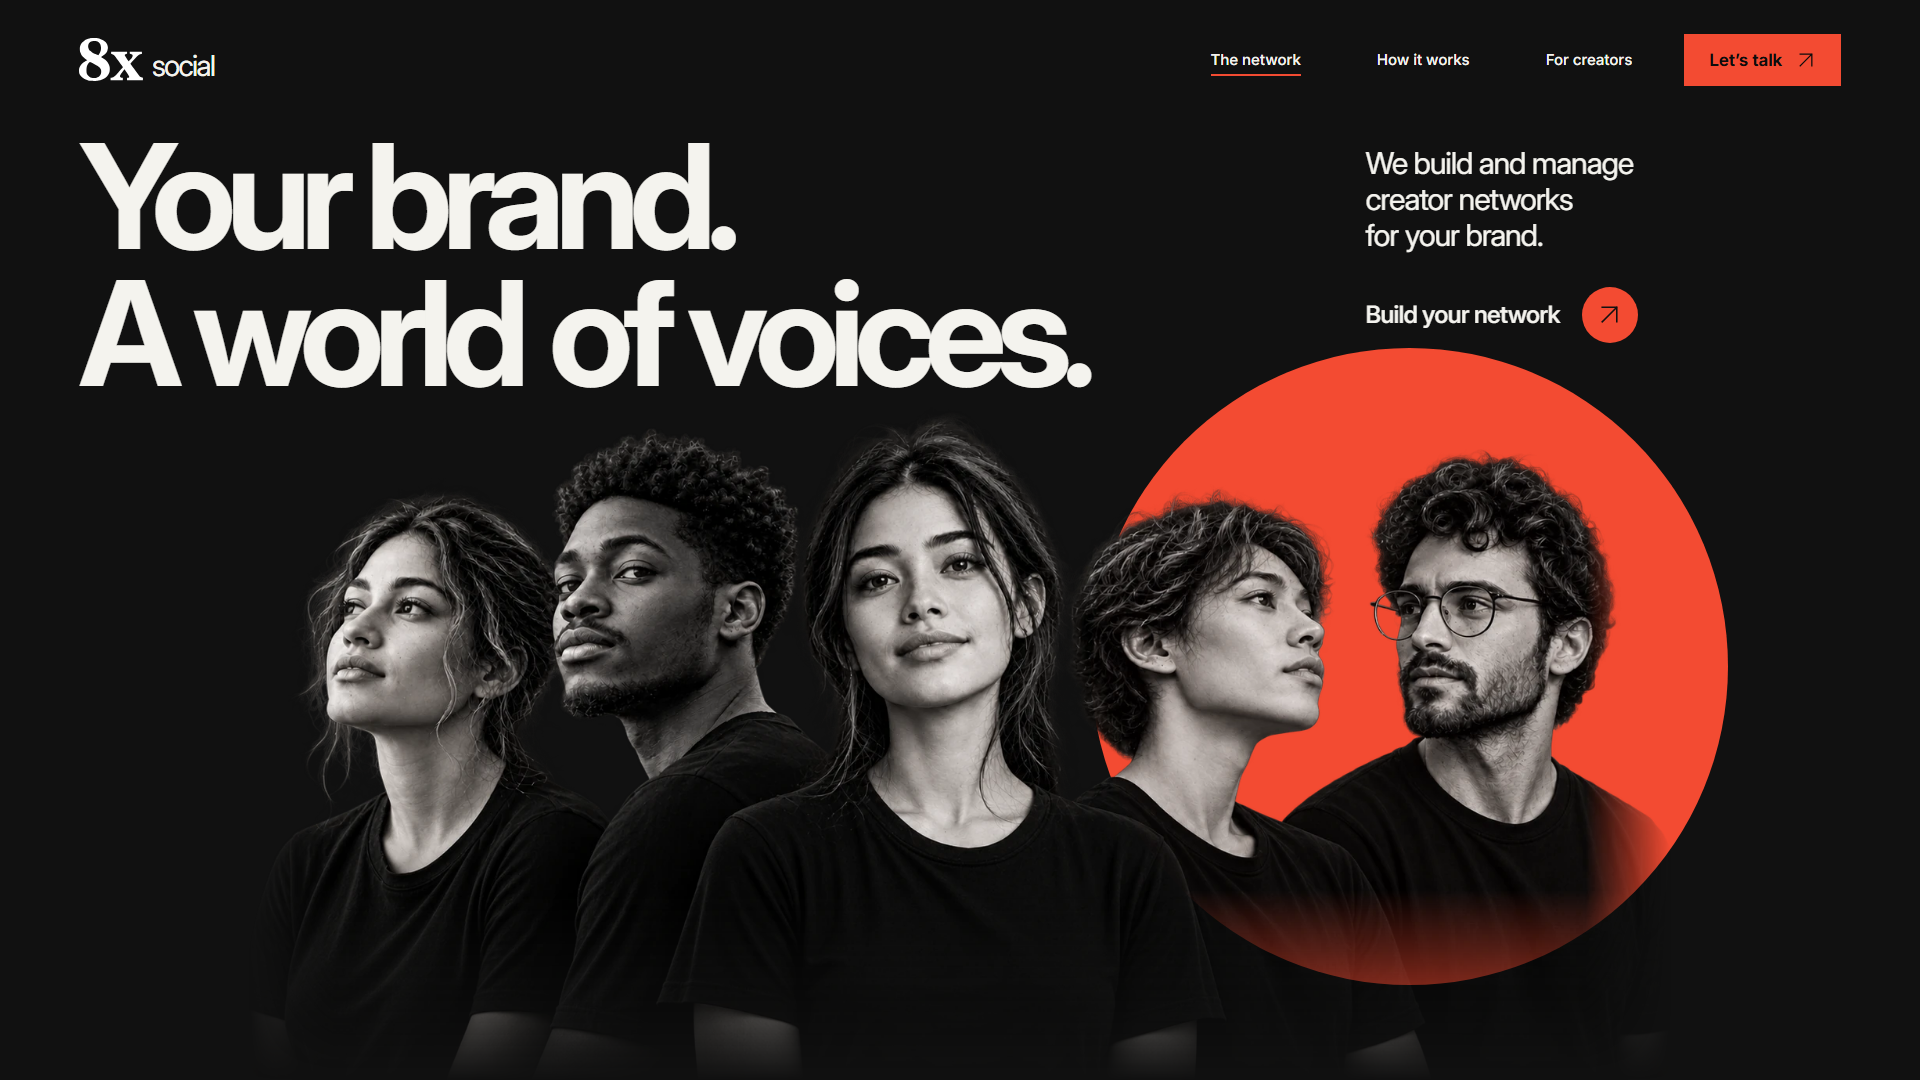
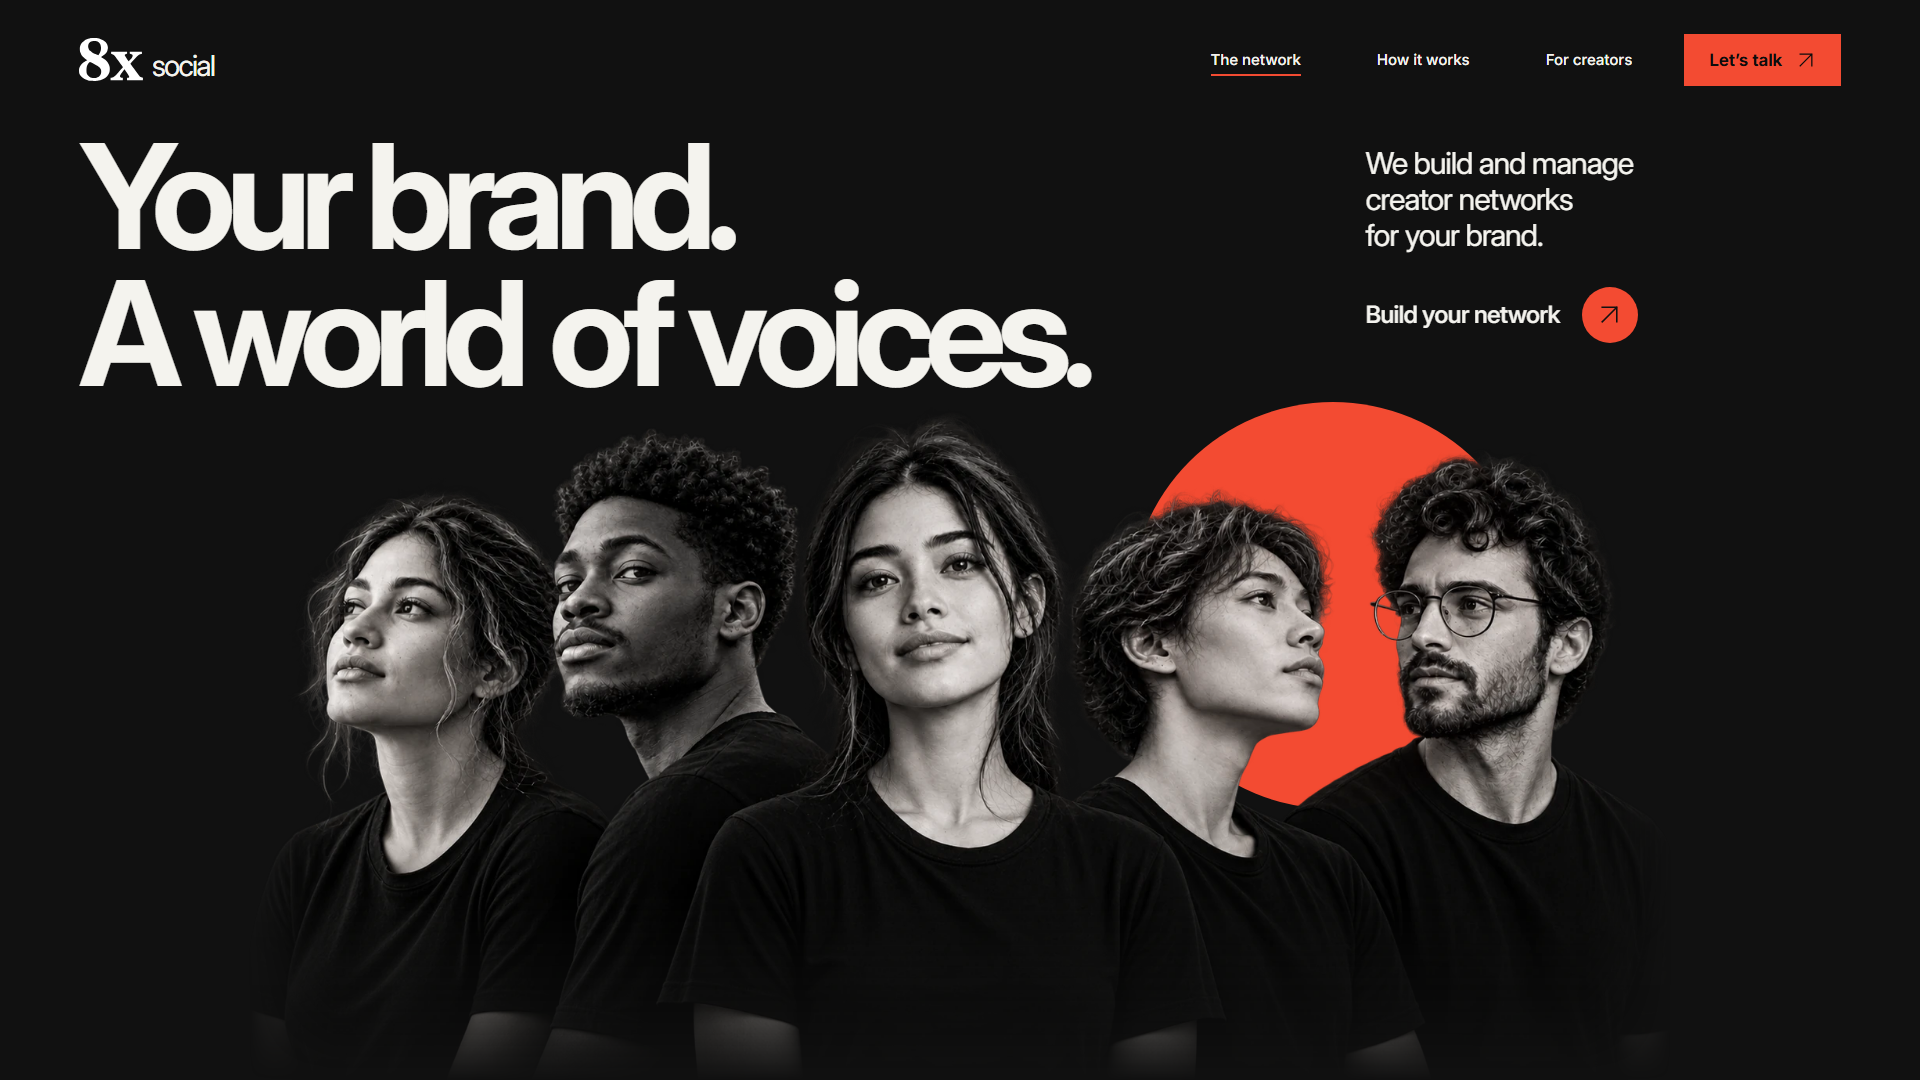
Refine layered footer motion and contain hero circle behind portraits

Changed region(s): [[0.5625, 0.3056, 0.9062, 0.9167], [0.625, 0.7333, 0.6875, 0.7639], [0.5625, 0.6722, 0.5938, 0.7333]]

diff --git a/components/family-footer.tsx b/components/family-footer.tsx
@@ -22,20 +22,27 @@ export function FamilyFooter() {
     let span = 0, top = 100, raf = 0, progress = 0, target = 0, last = 0;
     let measured = false;
     const draw = () => {
-      const turn = ease((progress - .1) / .46), reveal = ease((progress - .57) / .33);
-      const transform = `translate(${mix(280, 450, turn)} 300) scale(${mix(1.64, 3, turn)} ${mix(1.64, 2.2, turn)}) rotate(${turn * 90}) translate(-93 -132)`;
+      // Lift the complete silhouette, turn it, then lay it onto the print plane.
+      // Every layer shares one transform, so the serif edges never scatter.
+      const turn = ease((progress - .18) / .36);
+      const lift = ease((progress - .07) / .16) * (1 - ease((progress - .46) / .14));
+      const reveal = ease((progress - .6) / .23);
+      const transform = `translate(${mix(280, 450, turn)} ${300 - lift * 18}) scale(${mix(1.64, 3, turn)} ${mix(1.64, 2.2, turn)}) rotate(${turn * 90}) translate(-93 -132)`;
       ink.current!.setAttribute('transform', transform);
-      // A shallow ink layer gives the solid turn weight; it closes before printing.
-      const lift = Math.sin(turn * Math.PI);
-      depth.current!.setAttribute('transform', `translate(${lift * 4} ${lift * 5}) ${transform}`);
-      depth.current!.setAttribute('opacity', String(lift * .13));
-      suffix.current!.setAttribute('opacity', String(1 - ease((progress - .04) / .16)));
+      depth.current!.setAttribute('transform', transform);
+      depth.current!.setAttribute('opacity', String(lift));
+      // Three shallow registration layers compress together as the mark lands.
+      Array.from(depth.current!.children).forEach((layer, i) => {
+        const distance = (3 - i) * lift;
+        layer.setAttribute('transform', `translate(${distance * 1.1} ${distance * 1.8})`);
+      });
+      suffix.current!.setAttribute('opacity', String(1 - ease((progress - .05) / .12)));
       const sweep = mix(-50, 950, reveal);
       for (const mask of [solidMask.current!, printMask.current!]) {
-        mask.setAttribute('x1', String(sweep - 35)); mask.setAttribute('x2', String(sweep + 35));
+        mask.setAttribute('x1', String(sweep - 42)); mask.setAttribute('x2', String(sweep + 42));
       }
       journey.dataset.progress = progress.toFixed(3);
-      journey.dataset.phase = progress < .1 ? 'original' : progress < .57 ? 'turn' : progress < .9 ? 'impression' : 'settled';
+      journey.dataset.phase = progress < .07 ? 'original' : progress < .18 ? 'lift' : progress < .6 ? 'turn' : progress < .83 ? 'impression' : 'settled';
     };
     const sample = () => {
       if (motion.matches) return 1;
@@ -89,7 +96,7 @@ export function FamilyFooter() {
               <mask id="family-solid-mask" maskUnits="userSpaceOnUse" x="0" y="0" width="900" height="600"><rect width="900" height="600" fill="url(#family-solid-gradient)" /></mask>
               <mask id="family-print-mask" maskUnits="userSpaceOnUse" x="0" y="0" width="900" height="600"><rect width="900" height="600" fill="url(#family-print-gradient)" /></mask>
             </defs>
-            <g mask="url(#family-solid-mask)"><g ref={depth} opacity="0"><path d={mark.eight} /></g><g ref={ink}><path d={mark.eight} /></g></g>
+            <g mask="url(#family-solid-mask)"><g ref={depth} opacity="0">{[.08, .16, .24].map((opacity, i) => <path key={i} d={mark.eight} opacity={opacity} />)}</g><g ref={ink}><path d={mark.eight} /></g></g>
             <path ref={suffix} d={mark.x} transform="translate(280 300) scale(1.64) translate(-93 -132)" />
             <g className="family-print-layer" mask="url(#family-print-mask)">{mark.dots.map(([a,b,r], i) => <circle key={i} cx={450-(b-132)*3} cy={300+(a-93)*2.2} r={r} />)}</g>
           </svg>

diff --git a/app/hero-responsive.css b/app/hero-responsive.css
@@ -1,3 +1,9 @@
+/* Fade the whole composition into carbon, including the circle. Fading only
+   the cutout lets the orange underneath bleed through black clothing. */
+.hero-portrait{mask-image:linear-gradient(#000 0%,#000 72%,transparent 100%)}
+.hero-portrait img{mask-image:none}
+.hero-portrait::after{display:none}
+.hero-sun{height:60%;width:auto;right:20%;top:0;aspect-ratio:1}
 /* Compose the desktop hero against both dimensions, not just monitor width.
    The portrait keeps its complete intrinsic frame inside the remaining space. */
 @media (min-width:901px) and (min-height:520px) and (min-aspect-ratio:4/3) {
@@ -9,8 +15,7 @@
   .hero-cta{margin-top:clamp(18px,3svh,36px)}
   .hero-portrait{width:100%;height:100%;min-height:0;max-width:none;aspect-ratio:auto;margin:0}
   .hero-portrait picture{height:100%;display:flex;justify-content:center;mask-image:none}
-  .hero-portrait img{width:auto;height:100%;max-width:100%;object-fit:contain;mask-image:linear-gradient(to right,transparent,#000 6%,#000 94%,transparent),linear-gradient(#000 0%,#000 72%,transparent 100%);mask-composite:intersect}
-  .hero-sun{height:94%;width:auto;right:10%;top:-8%;aspect-ratio:1}
+  .hero-portrait img{width:auto;height:100%;max-width:100%;object-fit:contain;mask-image:linear-gradient(to right,transparent,#000 6%,#000 94%,transparent)}
   .hero-portrait::after{display:none}
 }
 @media (min-width:1151px) and (min-height:520px) and (min-aspect-ratio:4/3) {

diff --git a/tests/family-footer.spec.ts b/tests/family-footer.spec.ts
@@ -50,7 +50,11 @@ test('scroll animation waits at rest and returns to the original mark when scrol
   const frame = await page.locator('.family-art>svg').evaluate(el => el.outerHTML);
   await page.waitForTimeout(500);
   expect(await page.locator('.family-art>svg').evaluate(el => el.outerHTML)).toBe(frame);
+  await position(page, .84); await expect(root).toHaveAttribute('data-phase', 'settled');
+  const settled = await page.locator('.family-art>svg').evaluate(el => el.outerHTML);
   await position(page, 1); await expect(root).toHaveAttribute('data-phase', 'settled');
+  // The last reading interval holds the approved print, without late sinking.
+  expect(await page.locator('.family-art>svg').evaluate(el => el.outerHTML)).toBe(settled);
   await position(page, 0); await expect(root).toHaveAttribute('data-phase', 'original');
 });
 

diff --git a/docs/FOOTER.md b/docs/FOOTER.md
@@ -1,10 +1,10 @@
 # Layered stone family ending — September 17, 2026
 
-The first orange, entrance-timed footer was rejected: the user saw it already settled and could not find a real footer. The subsequent point-morph version was also rejected. The user requested a generated sequence and suggested layered motion; see design/footer-layered-v3. The current layered revision uses warm stone (#e9e5dc), connected to the original orange map by a narrow raster seam. The map's palette, geometry and density are unchanged. Review at http://localhost:3904/#family, then scroll down. Current implementation awaits user visual approval.
+The first orange, entrance-timed footer was rejected: the user saw it already settled and could not find a real footer. The subsequent point-morph version was also rejected. The user requested a generated sequence and suggested layered motion; see design/footer-layered-v3. The user now likes the final v3 dotted mark and responsive result. Its refined motion awaits review. The current layered revision uses warm stone (#e9e5dc), connected to the original orange map by a narrow raster seam. The map's palette, geometry and density are unchanged. Review at http://localhost:3904/?v=layered-finish-4#family, then scroll down.
 
 ## Sequence and layout
 
-`components/family-footer.tsx` and `app/family-footer.css` implement a native-scroll sequence. The original SVG 8x appears first. The x fades, the solid 8 rotates clockwise into a horizontal figure-eight, and a left-to-right print mask reveals a fixed halftone layer beneath it. A shallow ink offset closes before the print reveal; no dots travel independently. Products stay readable in a fixed right column; phones stack the artwork above the directory. A separate semantic footer follows with the original brand, Build your network CTA, creator/contact/LinkedIn links, legal links and back-to-top.
+`components/family-footer.tsx` and `app/family-footer.css` implement a native-scroll sequence. The original SVG 8x appears first. The x fades, the complete 8 lifts 18 SVG units with three shallow registration layers, then rotates clockwise into a horizontal figure-eight. The layers compress as it lands. A left-to-right print mask reveals a fixed halftone layer beneath it. No dots travel independently. Lift begins at 7%, turn runs from 18–54%, landing completes at 60%, printing runs from 60–83%; the remaining 17% holds the exact approved endpoint. Products stay readable in a fixed right column; phones stack the artwork above the directory. A separate semantic footer follows with the original brand, Build your network CTA, creator/contact/LinkedIn links, legal links and back-to-top.
 
 When the complete stage fits the viewport, CSS sticky holds it over 1.15 viewport heights of additional native scrolling. There is no wheel/touch interception. The SVG transforms and masks follow scroll with 85ms damping and stop updating at rest; scrolling back reconstructs the original logo. The effective progress distance is capped by the actual remaining document scroll, fixing an unfinished end frame on tall windows. Short viewports use entry progress without pinning. Reduced motion renders the settled illustration without added scroll distance. No JavaScript uses a matching static SVG and ordinary links.
 
@@ -18,6 +18,6 @@ The user's labels/order are Careers, Sale (singular), Social, Research and a fif
 
 ## Validation and rollback
 
-Production build and TypeScript pass. All 21 behavioral tests pass, including full-portrait viewport checks and completion at the document end in tall windows. Checks cover scroll phases, stationary directory, deterministic reverse, rest without looping, semantic footer/links, mobile, reduced motion, no-script fallback and overflow through 2558px. QA frames are `docs/qa/footer-v3-*.png`. The local browser was also checked through the actual scroll sequence. Safari/Firefox have not been verified.
+Production build and TypeScript pass. All 21 behavioral tests passed on the v3 baseline; the six targeted footer/hero tests pass after this refinement. The rest/reverse test now also verifies the settled SVG remains identical over the final reading interval. Checks cover scroll phases, stationary directory, deterministic reverse, rest without looping, semantic footer/links, mobile, reduced motion, no-script fallback and overflow through 2558px. QA frames are `docs/qa/footer-v3-*.png`. The local browser was also checked through the actual scroll sequence. Safari/Firefox have not been verified.
 
 The original map-only baseline is commit `31d6628`. Both v1 and v2 remain rejected historical implementations. The v3 generated board was produced before the layered implementation. The v1 generated board remains in `design/footer-infinity-v1` as historical direction; its orange timed implementation is rejected. Do not restore it as the current approved design. No deployment or dependency changes accompany this revision.

diff --git a/AGENTS.md b/AGENTS.md
@@ -2,6 +2,7 @@
 This is the fresh minimal project, separate from ../8x-social. Latest user requests govern; ignore parent Conductor/Open form instructions.
 Read design/CURRENT-DIRECTION.md and README.md. The approved build scope is the carbon hero, continuous real-creator-content sequence, stone Day-to-day, Dot Reach, interactive comparison and original ORANGE map on the main homepage. Each video section uses distinct original-site creators. Earlier partner-feedback layouts were rejected, not the underlying business content. Consult docs/CONTENT-AUDIT.md before designing later sections. The latest user explicitly chose the map next; preserve its original geometry and light dot density. The later 8-to-infinity product family ending remains future work.
 Latest footer revision supersedes the deferral above: the user rejected the orange timed reveal. The ending is now warm stone, with a bounded native-scroll 8-to-dotted-infinity sequence, stationary product directory and a real contact/legal footer. Read docs/FOOTER.md. Earlier decorative motion is quiet; media and functional controls remain. 8x Next is a placeholder, and unverified products have no links. The later v2 point morph was also rejected. Current v3 is a layered solid SVG turn and masked, stationary halftone reveal based on design/footer-layered-v3. The 1920×1080 hero now shows the full portrait frame. This implementation awaits user visual review.
+Latest feedback supersedes the pending-review sentence above: the user likes the final dotted mark and responsive result. Preserve that endpoint. The refined motion now lifts three shallow layers, turns the complete mark, compresses the layers, prints the dots and holds the final frame over the last 17% of travel. This choreography awaits review. The hero orange circle is smaller and inset behind faces; fade the whole composition so orange cannot bleed through the clothing. Keep this fix across mobile and desktop.
 Keep the original serif SVG mark. Studio montage appears ONLY in the hero. Use real original-site clips afterward; no fake metrics or generated videos. No new full-screen colour scenes, loading intro or scroll hijacking.
 One native-scroll reading interval, fixed media geometries, restrained local focus changes. Support reduced motion, mobile, keyboard, playback errors and manual controls. No WebGL/animation framework needed.
 Port3091 belongs to this app; do not stop unrelated ports3000/3088/3090. Work serially with one review browser. No delegation requested. Do not deploy without user request.

diff --git a/design/CURRENT-DIRECTION.md b/design/CURRENT-DIRECTION.md
@@ -1,5 +1,9 @@
 # Current design direction
 
+## Latest: approved endpoint, refined motion and circle correction
+
+The user likes the v3 dotted footer endpoint and viewport result and asked to bring it alive with layered motion. Preserve the final geometry, palette and directory. The refined sequence lifts three shallow layers beneath the original solid mark, turns it as a coherent silhouette, compresses the layers, then prints the stationary dots. The last 17% of travel holds the finished mark. New choreography awaits review; the settled visual is approved. The orange hero circle was separately flagged for spilling through the faded shoulders: it is now smaller, inset behind the faces, and fades with the whole composition rather than behind transparent clothing. No new asset or dependency.
+
 ## Latest: layered footer and viewport correction
 
 The user rejected the v2 point-morph animation and requested a new generated sequence before rebuilding. They specifically suggested layered motion. See footer-layered-v3: the generated board is saved, and the live footer now uses a coherent solid SVG turn followed by complementary masks revealing a stationary halftone print. No dot swarm or individual point morph. The hero now fits the full portrait frame at 1920×1080 and other desktop landscape sizes; wide headlines use two lines. Portrait tablets and phones retain natural document flow. The original map stays orange. New implementation awaits user visual review. This supersedes the v2 description below.

diff --git a/docs/IMPLEMENTATION.md b/docs/IMPLEMENTATION.md
@@ -59,3 +59,6 @@ A test caught the sticky stage escaping its container when extra reading distanc
 Preserve the now-integrated original Reach Atlas and its exact orange `#f34b32`. The family ending is implemented after the map. Confirm the fifth product name and unverified product destinations before public launch; see FOOTER.md. Do not reinstate rejected standalone scenes, the old loader, diagram sections or repeated studio montage.
 
 Before a public launch, review final content and links, decide indexing/social metadata, and verify on target browsers. No hosting deployment has been performed.
+
+## Hero circle correction (2026-09-17)
+The orange circle is now sized to 60% of the portrait composition height and inset 20% from the right, with its top inside the frame. This keeps the circle behind faces instead of under the translucent shoulder perimeter. The bottom mask belongs to the combined portrait/circle container; only the horizontal edge fade stays on the portrait. Desktop viewport budgeting and full intrinsic image framing are unchanged. Verified the existing 11 hero sizes, including 1920x1080, and refreshed docs/qa/hero-*.png. No source image changes.
